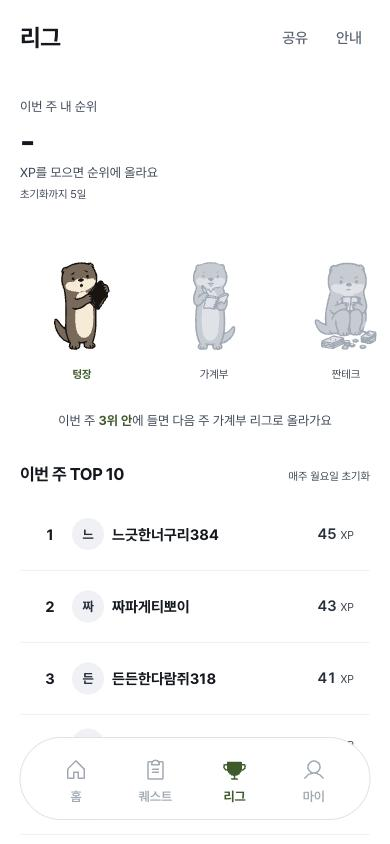
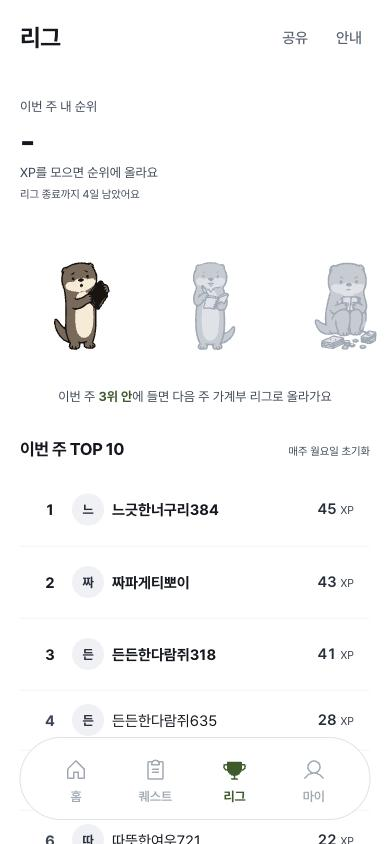
리그 등급 그림 아래 이름 제거(화면 읽기용 이름은 유지), 남은 기간을 '리그 종료까지 n일/n시간 남았어요'로

diff --git a/src/pages/LeagueScreen.tsx b/src/pages/LeagueScreen.tsx
@@ -12,7 +12,7 @@ import { LeagueRules } from '../components/LeagueRules';
 import { ProfileAvatar } from '../components/ProfileAvatar';
 import { StageGlyph } from '../components/StageGlyph';
 import { LeagueRankBadge } from '../components/league/LeagueRankBadge';
-import { daysUntilReset } from '../lib/league';
+import { timeLeftLabel } from '../lib/league';
 
 type Row = { rank: number; nickname: string; emoji: string; points: number; is_me: boolean };
 type MyRank = { rank: number | null; total: number; points: number };
@@ -77,7 +77,7 @@ const LeagueScreen = () => {
             <p className="league-my-rank-value">{mine?.rank ? `${mine.rank}위` : '-'}</p>
             <p className="type-supporting break-keep">{mine === null ? '순위 불러오는 중' : mine.rank ? `${mine.total.toLocaleString()}명 중 · ${mine.points.toLocaleString()}XP` : 'XP를 모으면 순위에 올라요'}</p>
           </>}
-          <p className="mt-1! text-2xs text-[var(--color-ink-3)]">초기화까지 {daysUntilReset()}일</p>
+          <p className="mt-1! text-2xs text-[var(--color-ink-3)]">리그 종료까지 {timeLeftLabel()} 남았어요</p>
         </section>
 
         {/* 티어 로드맵: 테두리·선 없이 큰 등급 그림을 가로로 넘긴다. 현재 등급은 이름 색·굵기로 강조하고 처음에 가운데로 둔다 */}
@@ -85,9 +85,8 @@ const LeagueScreen = () => {
           {GROWTH_STAGES.map(s => {
             const state = s.id < stage.id ? 'done' : s.id === stage.id ? 'current' : 'future';
             return (
-              <li key={s.id} className="league-tier-step" data-state={state} aria-current={state === 'current' ? 'step' : undefined}>
+              <li key={s.id} className="league-tier-step" data-state={state} aria-label={s.name} aria-current={state === 'current' ? 'step' : undefined}>
                 <span className="league-tier-node"><StageGlyph id={s.id} size={104} locked={state === 'future'} /></span>
-                <span className="league-tier-name">{s.name}</span>
               </li>
             );
           })}

diff --git a/src/lib/league.test.ts b/src/lib/league.test.ts
@@ -1,5 +1,5 @@
 import { describe, it, expect } from 'vitest';
-import { weekStart, msUntilReset, daysUntilReset } from './league';
+import { weekStart, msUntilReset, timeLeftLabel } from './league';
 
 const kst = (s: string) => new Date(`${s}+09:00`);
 const DAY = 24 * 60 * 60 * 1000;
@@ -39,20 +39,21 @@ describe('msUntilReset', () => {
   });
 });
 
-describe('daysUntilReset', () => {
+describe('timeLeftLabel', () => {
   it('월요일 시작이면 7일', () => {
-    expect(daysUntilReset(kst('2026-09-21T00:00:00'))).toBe(7);
+    expect(timeLeftLabel(kst('2026-09-21T00:00:00'))).toBe('7일');
   });
 
-  it('마지막 날에도 0이 아니라 1', () => {
-    expect(daysUntilReset(kst('2026-09-27T23:00:00'))).toBe(1);
+  it('하루 이상 남으면 일 단위로 내림', () => {
+    expect(timeLeftLabel(kst('2026-09-26T12:00:00'))).toBe('1일');
   });
 
-  it('1~7 범위를 벗어나지 않는다', () => {
-    for (let h = 0; h < 24 * 7; h += 3) {
-      const d = daysUntilReset(new Date(kst('2026-09-21T00:00:00').getTime() + h * 3600000));
-      expect(d).toBeGreaterThanOrEqual(1);
-      expect(d).toBeLessThanOrEqual(7);
-    }
+  it('하루 안이면 시간 단위로 올림', () => {
+    expect(timeLeftLabel(kst('2026-09-27T00:30:00'))).toBe('24시간');
+    expect(timeLeftLabel(kst('2026-09-27T21:30:00'))).toBe('3시간');
+  });
+
+  it('마지막 몇 분에도 0이 아니라 1시간', () => {
+    expect(timeLeftLabel(kst('2026-09-27T23:59:00'))).toBe('1시간');
   });
 });

diff --git a/src/index.css b/src/index.css
@@ -1138,8 +1138,6 @@ button.course-home-rail-card:active { background: var(--color-surface); }
 .league-tier-step[data-state='future'] .league-tier-node .stage-glyph { opacity: 1; filter: none; }
 .league-promote-note { margin: calc(var(--section-gap) * -1 + var(--space-2)) 0 0; text-align: center; }
 .league-promote-note strong { color: var(--color-accent-foreground); font-weight: var(--font-weight-bold); }
-.league-tier-name { margin-top: var(--space-1); max-width: 100%; overflow: hidden; color: var(--color-ink-3); font-size: var(--font-size-caption); text-overflow: ellipsis; white-space: nowrap; }
-.league-tier-step[data-state='current'] .league-tier-name { color: var(--color-accent-foreground); font-weight: var(--font-weight-bold); }
 .league-tier-xp { color: var(--color-ink-3); font-size: var(--font-size-caption); font-variant-numeric: tabular-nums; }
 
 /* 모노 카드: 그림자 없이 검정 1.5px 테두리로 나눈다 */

diff --git a/src/lib/league.ts b/src/lib/league.ts
@@ -13,6 +13,9 @@ export const weekStart = (now: Date = new Date()): number => {
 export const msUntilReset = (now: Date = new Date()): number =>
   weekStart(now) + 7 * 24 * 60 * 60 * 1000 - now.getTime();
 
-// 남은 일수. 오늘이 마지막 날이면 1일로 표시한다(0일이라고 하면 이미 끝난 것처럼 보인다).
-export const daysUntilReset = (now: Date = new Date()): number =>
-  Math.max(1, Math.ceil(msUntilReset(now) / (24 * 60 * 60 * 1000)));
+// 남은 시간 표시. 하루 이상이면 'n일'(내림), 하루 안이면 'n시간'(올림, 최소 1시간)
+export const timeLeftLabel = (now: Date = new Date()): string => {
+  const ms = msUntilReset(now);
+  const HOUR = 60 * 60 * 1000;
+  return ms >= 24 * HOUR ? `${Math.floor(ms / (24 * HOUR))}일` : `${Math.max(1, Math.ceil(ms / HOUR))}시간`;
+};

diff --git a/src/pages/LeagueScreen.test.tsx b/src/pages/LeagueScreen.test.tsx
@@ -46,7 +46,7 @@ describe('리그로 옮긴 이번 주 내 순위', () => {
     const card = container.querySelector('[aria-labelledby="league-my-rank"]');
     expect(card).toHaveTextContent('3위');
     expect(card).toHaveTextContent('13명 중 · 120XP');
-    expect(card).toHaveTextContent(/초기화까지 \d일/);
+    expect(card).toHaveTextContent(/리그 종료까지 \d+(일|시간) 남았어요/);
   });
 
   it('아직 XP가 없으면 순위 대신 참여 방법을 알려준다', async () => {

diff --git a/DESIGN.md b/DESIGN.md
@@ -234,8 +234,8 @@
 
 ### 리그 (`/league`)
 
-- 이번 주 내 순위: 34px 순위, `N명 중 · XP`, 초기화까지 남은 일.
-- 등급 단계: 테두리·트랙 없이 104px 등급 그림 열 개를 가로로 넘긴다(칸 124px, 다음 칸이 살짝 보이게, 처음엔 현재 등급을 가운데로). 현재 등급은 이름 색·굵기로 강조, 아직 못 간 등급은 회색 잠김본. 아래 한 줄로 승급 조건("이번 주 3위 안에 들면 다음 주 ○○ 리그로 올라가요", 지금 3위 안이면 "지금 순위를 지키면…").
+- 이번 주 내 순위: 34px 순위, `N명 중 · XP`, "리그 종료까지 n일 남았어요"(하루 안이면 n시간).
+- 등급 단계: 테두리·트랙 없이 104px 등급 그림 열 개를 가로로 넘긴다(칸 124px, 다음 칸이 살짝 보이게, 처음엔 현재 등급을 가운데로). 그림 아래 등급 이름은 두지 않는다. 지금과 지난 등급은 색 그림, 아직 못 간 등급은 회색 잠김본. 아래 한 줄로 승급 조건("이번 주 3위 안에 들면 다음 주 ○○ 리그로 올라가요", 지금 3위 안이면 "지금 순위를 지키면…").
 - TOP 10: 순위 목록 하나만 둔다(시상대는 같은 1~3위를 반복해서 뺐다). 1~3위는 보라 굵은 숫자, 내 행은 옅은 보라 면.
 
 ### 마이 (`/my`)
